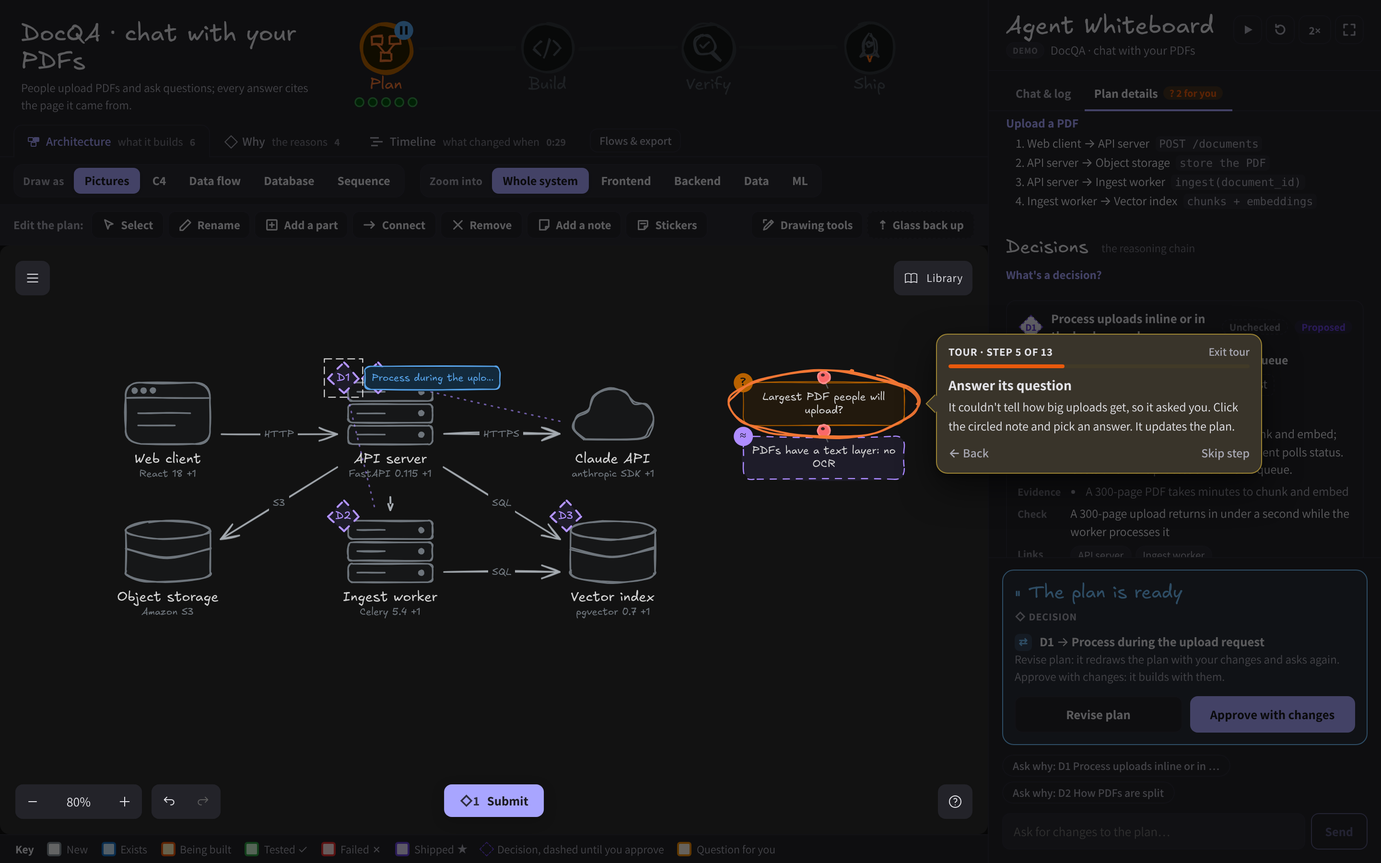
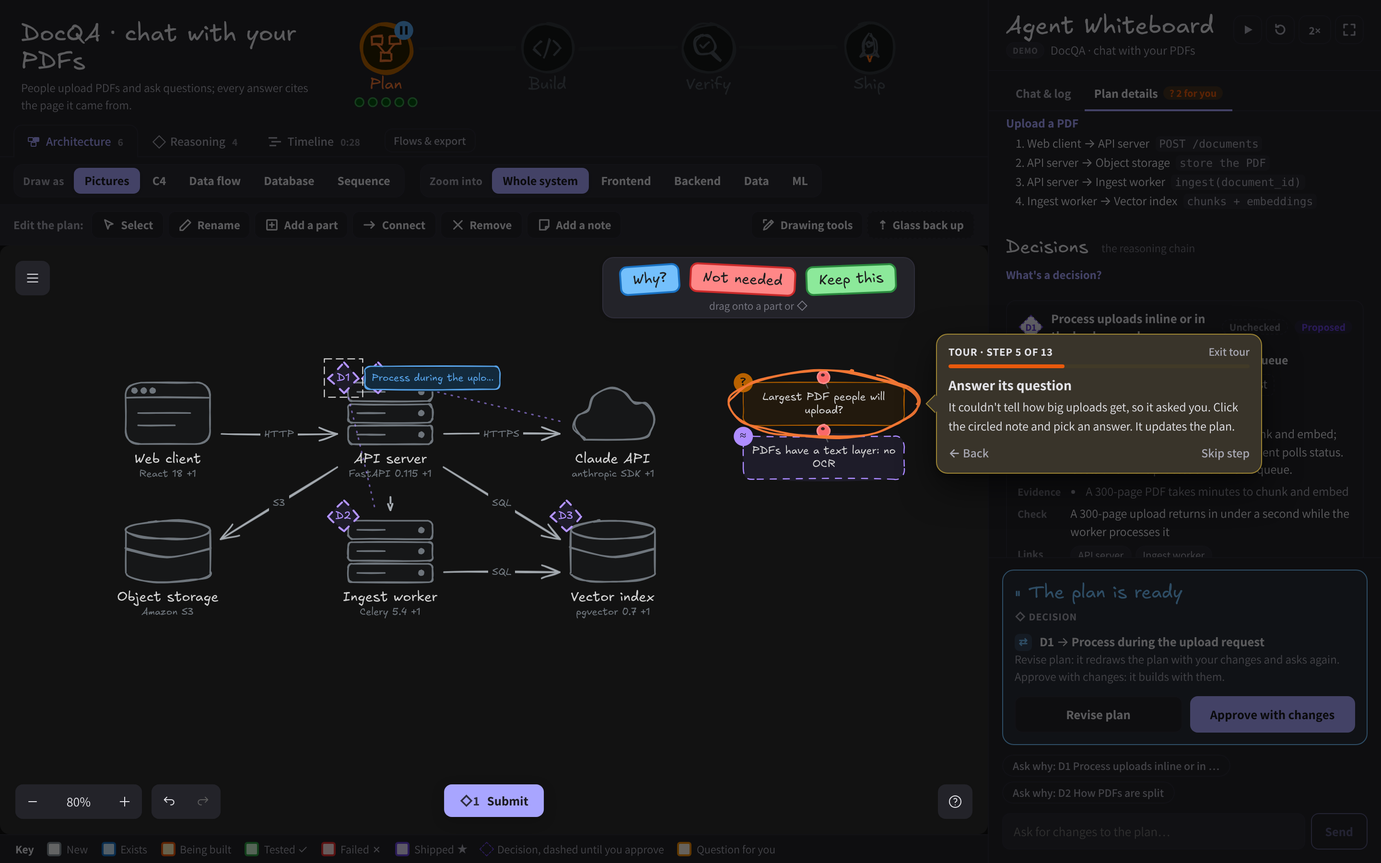
Stickers in a tray on the board; clearer board headers
The three stickers sit in a tray at the top right of the board, always in
sight, instead of behind a Stickers button in Excalidraw's Library (whose
"Personal Library" / "Excalidraw Library" headings meant nothing here).
Each is a plain HTML5 drag carrying the sticker as an Excalidraw library
item, so the drop is Excalidraw's own and the board turns it into an edit
as before; the drop lowers the glass. The Library button is hidden, and a
selected sticker no longer opens the style panel.

The board's tabs are Architecture, Reasoning (was "Why · the reasons")
and Timeline, with counts and no subtitles. With no plan yet the header
says "No plan yet" instead of "Waiting for the agent…".

Docs and screenshots updated; tour-check passes, light and dark.

Claude-Session: https://claude.ai/code/session_01CnzFEP1V3N7s4aLoNxWexn

diff --git a/src/App.jsx b/src/App.jsx
@@ -1,5 +1,5 @@
 import { useCallback, useEffect, useRef, useState } from "react";
-import { Excalidraw, exportToBlob, exportToSvg, sceneCoordsToViewportCoords, viewportCoordsToSceneCoords } from "@excalidraw/excalidraw";
+import { Excalidraw, exportToBlob, exportToSvg, MIME_TYPES, sceneCoordsToViewportCoords, serializeLibraryAsJSON, viewportCoordsToSceneCoords } from "@excalidraw/excalidraw";
 import { Board, PHASES, STATUS, STICKERS, stickerItems } from "./engine/board";
 import PhaseHeader from "./PhaseHeader";
 import { Session } from "./engine/session";
@@ -83,7 +83,6 @@ const TOOL_ICONS = {
   remove: <path d="M3.5 3.5l9 9M12.5 3.5l-9 9" />,
   note: <path d="M3 2.5h10v7.5l-3.5 3.5H3zM9.5 13.5V10H13" />,
   tools: <path d="M2.5 13.5l3-1 7.5-7.5-2-2L3.5 10.5zM9.5 4.5l2 2M2.5 2.5h3M2.5 2.5v3" />,
-  stickers: <path d="M3 3.5h10v6l-3.5 3.5H3zM9.5 13V9.5H13M5.5 6.5h5" />,
 };
 const ToolIcon = ({ name }) => (
   <svg width="15" height="15" viewBox="0 0 16 16" aria-hidden="true" fill="none" stroke="currentColor" strokeWidth="1.6" strokeLinecap="round" strokeLinejoin="round">
@@ -1094,6 +1093,35 @@ function BoardKey() {
   );
 }
 
+// The stickers, always in sight at the top of the board: drag one onto a part or a ◇. The drop is Excalidraw's
+// own library drop, so the board gets the same sticker elements (stickerItems) and turns them into
+// edits as before. A drop pulls the glass down, so you can move it or Submit.
+const STICKER_SAYS = { why: "Asks it to explain", drop: "Asks it to drop that", keep: "Says leave it as is" };
+function StickerTray({ onDropped }) {
+  return (
+    <div className="sticker-tray" data-tour="stickers" role="group" aria-label="Stickers: drag one onto a part or a decision">
+      {Object.entries(STICKERS).map(([key, st]) => (
+        <span
+          key={key}
+          className="sticker"
+          draggable
+          title={`${STICKER_SAYS[key]}. Drag it onto a part or a ◇.`}
+          style={{ "--st-stroke": st.stroke, "--st-fill": st.fill, transform: `rotate(${st.angle}rad)` }}
+          onDragStart={(e) => {
+            const item = stickerItems().find((i) => i.id === `wb-sticker-${key}`);
+            e.dataTransfer.setData(MIME_TYPES.excalidrawlib, serializeLibraryAsJSON([item]));
+            e.dataTransfer.effectAllowed = "copy";
+          }}
+          onDragEnd={(e) => e.dataTransfer.dropEffect !== "none" && onDropped()}
+        >
+          {st.label}
+        </span>
+      ))}
+      <span className="st-hint">drag onto a part or ◇</span>
+    </div>
+  );
+}
+
 export default function App() {
   const [api, setApi] = useState(null);
   const [whyApi, setWhyApi] = useState(null);
@@ -1309,9 +1337,6 @@ export default function App() {
       if (!alive) return;
       setAgent(status);
       setRepo((r) => r || status.defaultRepo || "");
-      // The sticker sheet, in Excalidraw's Library (Stickers in Edit the plan opens it). Made once
-      // the hand-drawn font is loaded, so the labels are measured right.
-      api.updateLibrary({ libraryItems: stickerItems(), merge: true, defaultStatus: "unpublished" }).catch((e) => console.warn("Stickers didn't load", e));
       // Excalidraw measures its container after mount, so fit once it has real dimensions.
       timers.push(setTimeout(() => board.fit(), 150));
       // With an API key, wait for a task; otherwise play the scripted demo, as the tour on a first visit.
@@ -1418,8 +1443,10 @@ export default function App() {
         const lids = s.board.logicalIdsFor(sel ? sel.split(",") : []);
         showLinked(lids);
         setBoardSel(lids);
-        // Restyling what the board draws does nothing (it's redrawn), so its style panel would only cover the board.
-        setOwnSel(!!sel && sel.split(",").every((id) => s.board.known.has(id)));
+        // Restyling what the board draws does nothing (it's redrawn), so its style panel would only cover
+        // the board; a sticker means what it says, whatever its colors.
+        const scene = sel ? new Map(s.board.api.getSceneElements().map((e) => [e.id, e])) : null;
+        setOwnSel(!!sel && sel.split(",").every((id) => s.board.known.has(id) || !!scene.get(id)?.customData?.sticker));
         // A selected decision fans out its alternatives: drag one onto it to pick it.
         if (s.mode !== "replay") s.board.onSelect(sel ? sel.split(",") : [], appState);
       }
@@ -1796,11 +1823,6 @@ export default function App() {
     setTimeout(() => !b.api.getAppState().editingTextElement && dbl(), 60);
     setToolHint("Type the new name, then click an empty spot.");
     return true;
-  };
-  // The sticker sheet is Excalidraw's Library sidebar.
-  const openStickers = () => {
-    s?.board.api.toggleSidebar({ name: "default", tab: "library", force: true });
-    setToolHint("Drag a sticker onto a part or a ◇. Why? asks it to explain, Not needed asks to drop it, Keep this says leave it as is.");
   };
   const selected = boardSel.length === 1 ? boardSel[0] : null;
   const toolRename = () => {
@@ -2409,13 +2431,11 @@ export default function App() {
           <button role="tab" aria-selected={boardView === "board"} data-tour="arch-tab" onClick={() => showView("board")} title="The components and how they connect. Edit it to steer the agent.">
             <span className="ct-icon" aria-hidden="true" />
             Architecture
-            <span className="ct-sub">what it builds</span>
             {nodeCount > 0 && <span className="ct-count">{nodeCount}</span>}
           </button>
           <button role="tab" aria-selected={boardView === "why"} data-tour="why-tab" onClick={() => showView("why")} title="Each decision: its evidence, what it shapes, and the check that proves it">
             <span className="vs-diamond" aria-hidden="true" />
-            Why
-            <span className="ct-sub">the reasons</span>
+            Reasoning
             {allDecisions.length > 0 && <span className="ct-count" title="Decisions">{allDecisions.length}</span>}
             {(proofCount("pass") > 0 || proofCount("fail") > 0) && (
               <span className="ct-proofs" title={`${proofCount("pass")} proven, ${proofCount("fail")} failed, ${proofCount(null)} not checked yet`}>
@@ -2427,7 +2447,6 @@ export default function App() {
           <button role="tab" aria-selected={boardView === "timeline"} data-tour="timeline-tab" onClick={() => showView("timeline")} title="How the decisions moved over the run: what changed, when, and because of what">
             <span className="tl-icon" aria-hidden="true" />
             Timeline
-            <span className="ct-sub">what changed when</span>
             {hasTimeline && <span className="ct-count" title="How long the run took">{fmt(tl.duration)}</span>}
             {tl?.changes > 0 && (
               <span className="ct-changes" title={`${tl.changes} decision change${tl.changes === 1 ? "" : "s"}`}>
@@ -2539,10 +2558,6 @@ export default function App() {
               <ToolIcon name="note" />
               Add a note
             </button>
-            <button onClick={openStickers} data-tour="stickers" title="Stickers to drag onto a part or a ◇: Why?, Not needed, Keep this">
-              <ToolIcon name="stickers" />
-              Stickers
-            </button>
             <button className={`eb-tools ${tools ? "on" : ""}`} aria-pressed={tools} onClick={toggleTools} title="Show or hide Excalidraw's full drawing tools">
               <ToolIcon name="tools" />
               Drawing tools
@@ -2564,6 +2579,7 @@ export default function App() {
                 <span className="glass-glint" />
               </div>
             )}
+            {editable && <StickerTray onDropped={lowerGlass} />}
             {editable && glassUp && (
               <button className="glass-handle" data-tour="glass" onClick={lowerGlass} title="Pull the glass down to move, rename, remove or add things, then Submit">
                 <span aria-hidden="true">⇣</span> Pull down to edit
@@ -2635,7 +2651,7 @@ export default function App() {
           <div
             className={`canvas ${boardView === "why" ? "on" : ""}`}
             role="tabpanel"
-            aria-label="Why"
+            aria-label="Reasoning"
             onPointerDownCapture={(e) => (whyDown.current = [e.clientX, e.clientY])}
             onPointerUpCapture={whyClick}
           >

diff --git a/src/styles.css b/src/styles.css
@@ -2215,18 +2215,6 @@ button:focus-visible {
   padding: 6px 12px;
 }
 
-/* Board tabs say what each one is for. */
-.ct-sub {
-  font-weight: 500;
-  font-size: 12px;
-  color: var(--faint);
-}
-@media (max-width: 1280px) {
-  .ct-sub {
-    display: none;
-  }
-}
-
 /* Flows & export: one flow's steps on the board, and Export. */
 .view-items {
   min-width: 220px;
@@ -2451,6 +2439,50 @@ button:focus-visible {
   background: var(--accent-soft);
   color: var(--accent);
 }
+/* The stickers live in the tray on the board, so Excalidraw's Library button has nothing to offer. */
+.canvas.arch .default-sidebar-trigger {
+  display: none;
+}
+
+/* The sticker tray: top right of the board (where the Library button was, clear of the agent's
+   avatar), the stickers as they look on it, ready to drag. */
+.sticker-tray {
+  position: absolute;
+  top: 12px;
+  right: 76px;
+  z-index: 3;
+  display: flex;
+  flex-wrap: wrap;
+  justify-content: center;
+  align-items: center;
+  gap: 4px 10px;
+  max-width: 300px;
+  padding: 7px 12px 5px;
+  border: 1px solid var(--line);
+  border-radius: 12px;
+  background: var(--panel);
+  box-shadow: 0 1px 4px rgba(0, 0, 0, 0.08);
+}
+.sticker {
+  padding: 3px 12px;
+  border: 2px solid var(--st-stroke);
+  border-radius: 8px;
+  background: var(--st-fill);
+  color: #1e1e1e;
+  font: 15px/1.4 var(--hand);
+  cursor: grab;
+  user-select: none;
+}
+.sticker:active {
+  cursor: grabbing;
+}
+.st-hint {
+  flex-basis: 100%;
+  text-align: center;
+  font-size: 11.5px;
+  color: var(--faint);
+}
+
 .canvas.tools-off .App-toolbar-container,
 .canvas.tools-off .HintViewer {
   display: none !important;

diff --git a/test/tour.test.js b/test/tour.test.js
@@ -77,7 +77,7 @@ test("a whole tour: each step waits for its action, then moves on by itself", ()
   assert.equal(at(t), "why");
 
   c = { ...c, phase: "verification", view: "why" };
-  assert.equal(advance(t, c), t, "the Why tab only counts once a check has changed a decision");
+  assert.equal(advance(t, c), t, "the Reasoning tab only counts once a check has changed a decision");
   c = { ...c, testCaused: true };
   t = advance(t, c);
   assert.equal(at(t), "untrue");
@@ -182,7 +182,7 @@ test("what stays lit, and where the card goes", () => {
   const built = { ...plan, gate: false, stage: "building", phase: "implementation", building: "api" };
   assert.deepEqual(go("build", built).spot, [".transcript", BOARD]);
   assert.deepEqual(go("build", { ...built, tab: "plan" }).spot, [BOARD]);
-  assert.deepEqual(go("why", { ...built, testCaused: true }).spot, [], "just the Why tab");
+  assert.deepEqual(go("why", { ...built, testCaused: true }).spot, [], "just the Reasoning tab");
   assert.deepEqual(go("untrue", { ...built, phase: "complete", finished: true }).spot, [BOARD], "the red pen marks");
-  assert.deepEqual(go("untrue", { ...built, phase: "complete", finished: true, view: "why" }).spot, [], "no pen marks on the Why tab");
+  assert.deepEqual(go("untrue", { ...built, phase: "complete", finished: true, view: "why" }).spot, [], "no pen marks on the Reasoning tab");
 });

diff --git a/src/engine/tour.js b/src/engine/tour.js
@@ -115,10 +115,10 @@ export const TOUR = [
   {
     id: "why",
     title: "A check failed, so it changed a decision",
-    text: "D2 said “the right page for 45 of 50 questions”. The eval found 41, so it changed D2. Open the Why tab: each decision with its evidence, what it shapes, and the check that proves it.",
+    text: "D2 said “the right page for 45 of 50 questions”. The eval found 41, so it changed D2. Open the Reasoning tab: each decision with its evidence, what it shapes, and the check that proves it.",
     wait: (c) => (c.testCaused ? null : "Testing… watch the ◇ decisions get ✓ or ✗."),
     done: (c) => (c.testCaused && c.view === "why") || past(c, ["complete"]),
-    dom: (c) => (c.testCaused ? [{ sel: '[data-tour="why-tab"]', label: "Why" }] : []),
+    dom: (c) => (c.testCaused ? [{ sel: '[data-tour="why-tab"]', label: "Reasoning" }] : []),
     release: "verify",
   },
   {

diff --git a/src/PhaseHeader.jsx b/src/PhaseHeader.jsx
@@ -105,8 +105,8 @@ export default function PhaseHeader({ model, reviewing, hl, onHover, onFocus }) 
   return (
     <header className="journey" ref={wrap}>
       <div className={`journey-title ${hl.has("title") ? "hl" : ""}`}>
-        <h2>{model.project || "Waiting for the agent…"}</h2>
-        {model.goal && <p title={model.goal}>{model.goal}</p>}
+        <h2>{model.project || "No plan yet"}</h2>
+        {model.goal ? <p title={model.goal}>{model.goal}</p> : !model.project && <p>The agent draws its plan here.</p>}
       </div>
       <svg className="journey-strip" data-tour="road" viewBox={`0 0 ${W} ${H}`} role="list" aria-label="Development phases">
         {art.map(({ p, i, state, st, cx, road, circle, icon: ic }) => {

diff --git a/HANDOFF.md b/HANDOFF.md
@@ -44,10 +44,11 @@ Every run is recorded so it can be replayed, reopened, and read as a decision lo
 - **Views (4.2):** (earlier) Pictures | C4 switch, now part of the Diagram picker; **Show** picker: one layer (Frontend, Backend, Data, ML, External) or one flow (numbered steps on the arrows, a steps card, the rest faded); **Export**: Mermaid (container view, or the flow as a sequence diagram), SVG, PNG. New op `flow` and node field `layer`; the decision log now has a Diagrams section. Verified on the demo (both styles, both flows, the ML layer, a full build with a flow focused, SVG/PNG downloads, Mermaid rendered with Mermaid 11) and a saved real run; not on a live run yet: check the agent sends `flow` ops and `layer`s.
 - **Models (README):** three settings, `AGENT_URL` (any Anthropic-format endpoint; left out for Anthropic's API), `AGENT_KEY` (left out for a local server) and `AGENT_MODEL`. `agentEnv()` in `server/runs.js` writes them into the variables the Claude Agent SDK reads and is passed as the query's `env`: for a custom URL, `ANTHROPIC_BASE_URL`, `ANTHROPIC_AUTH_TOKEN` (the key, or `none`), an empty `ANTHROPIC_API_KEY` (so the SDK doesn't sign in to Anthropic instead), and the model for every `ANTHROPIC_DEFAULT_*_MODEL` tier. Claude Code's own variables (`ANTHROPIC_*`, `CLAUDE_CODE_USE_BEDROCK`/`VERTEX`/`FOUNDRY`) still work. `provider()` names the route in the top bar. The agent loop is the SDK, so non-Claude models are unofficial. Only Anthropic's API has been run; an Ollama test in a cloud session was blocked (running the downloaded binary wasn't permitted), so Ollama, LiteLLM, OpenRouter and the cloud providers follow their official setup pages, **untested**. **Codex is supported** (`AGENT_ENGINE=codex`, `server/codex-run.js`, below). opencode and pi aren't; the board's MCP server over HTTP (`server/board-mcp.js`) is what they'd connect to, plus a run loop each, like Codex's.
 - **First-time help (4.11):** someone found the UI too hard to follow, so it now walks a first-year CS student through a run without removing anything: a coach card (step 1–4 and what to do now), sticky-note tips with hand-drawn arrows on the board at the first plan gate, an **Edit the plan** toolbar with words (Excalidraw's own toolbar behind **Drawing tools**), a click-to-explain card for whatever's selected, a color key, plain-word tabs/counts/receipts/prompts, and one **View** menu for Diagram, Show only and Export. Designed from three mockups (A step by step, B today's layout plus a coach, C click anything; a private Design canvas the user has): this is B plus C's explain card. Verified on the demo (every step, Rename, Use this and Remove queuing edits, dark theme), the start screen and a permission prompt with the agent status stubbed live and a recording fed through the agent path; not on a live run yet.
-- **Stickers, red pen, tape and pins (4.12):** a sticker sheet (Why?, Not needed, Keep this) in Excalidraw's Library, opened by **Stickers** in Edit the plan; a sticker dropped on a part or a ◇ becomes a `sticker` edit (area ▢ / ◇, Keep this ✐), sent with Submit, answered by the agent, then cleared (Keep this stays as a constraint, listed as `kept` in board_state). At the end of a run the review is marked on the board in red pen: a ring round the part owning a file a false claim names (a margin note when no part owns it), a ✗ over a failed check. Your notes get washi tape, the agent's questions and assumptions a push pin (Pictures only). Verified on the demo in headless Chromium, light and dark (real drags from the Library onto a part and a diamond, Approve with changes, the clear-up after the turn, a real click on a pen mark, C4 without tape or pins); not on a live run yet: check the agent answers `sticker` edits as instructions.js says.
+- **Stickers, red pen, tape and pins (4.12):** three stickers (Why?, Not needed, Keep this) in a tray at the top of the board (they used to be in Excalidraw's Library, behind a Stickers button: the user doesn't want things hidden behind buttons); a sticker dropped on a part or a ◇ becomes a `sticker` edit (area ▢ / ◇, Keep this ✐), sent with Submit, answered by the agent, then cleared (Keep this stays as a constraint, listed as `kept` in board_state). At the end of a run the review is marked on the board in red pen: a ring round the part owning a file a false claim names (a margin note when no part owns it), a ✗ over a failed check. Your notes get washi tape, the agent's questions and assumptions a push pin (Pictures only). Verified on the demo in headless Chromium, light and dark (real drags from the Library onto a part and a diamond, Approve with changes, the clear-up after the turn, a real click on a pen mark, C4 without tape or pins); not on a live run yet: check the agent answers `sticker` edits as instructions.js says.
 - **The tour (4.13):** **Take the tour** runs the scripted demo as a 13-step lesson that waits for you at each step (click a ◇, Use this or a sticker, answer the question, approve with changes, hover a log line, a scripted command prompt, the Why tab after D2 fails, the false README.md claim, the Timeline, Draw as and Zoom into, finish). Step logic is pure (`src/engine/tour.js`, unit-tested in `test/tour.test.js`); `scripts/tour-check.cjs` takes the whole tour in headless Chromium with real clicks, light and dark, plus Back / Skip step / Exit and a check that the plain demo is unchanged. Live mode's start screen checked with the agent status stubbed live. Screenshots in `screenshots/tour/`.
 - **Tutorial:** `docs/TUTORIAL.md`, a walkthrough for a first-year CS student (setup, the tour, a first run, steering, the command prompt, checking the result, saved runs and the decision log, your own task), linked at the top of the README. Its screenshots are `screenshots/tour/`, `screenshots/stickers/` and `screenshots/tutorial/` (the start screen, a reopened run's Timeline). Keep it in step with the UI: when a button's name or a step changes, update the tutorial in the same commit.
 - **Zoom into, Draw as, the glass, a shorter demo (4.14):** the user wanted layers they can open (not just greyed-out boxes), the notation picker visible, the board behind glass until you choose to edit, and less prose in the panel. A bar above the board: **Draw as** (the old Diagram dropdown) and **Zoom into** (Whole system or a layer: the layer's components opened on the board's own map to show their parts, other layers closed as grey boxes; new `part` op). The board sits behind glass; **Pull down to edit** shows Edit the plan, Submit puts it back. The demo's prose is one line per step (same ops). Verified on the demo in headless Chromium (every layer, a drag blocked behind glass and a click still explaining, the drag working with the glass down, the tour's new step); not on a live run yet: check the agent sends `part` ops.
+- **Headers:** the board's tabs are **Architecture**, **Reasoning** (was "Why · the reasons") and **Timeline**, with their counts and no subtitles (the tooltips explain). With no plan yet the header says "No plan yet" and "The agent draws its plan here." (was "Waiting for the agent…"). Code still calls the Reasoning view `why` (`whyApi`, `data-tour="why-tab"`).
 - Next: the backlog in 8.7.
 
 ---
@@ -241,7 +242,7 @@ Its own Excalidraw canvas (read-only, `viewModeEnabled`). One row per decision: 
 
 Three board-drawn touches, all following the `showTips` pattern (board ids, remembered so `diff()` skips them, seeds from ids):
 
-- **Sticker sheet** (`src/engine/stickers.js`, `stickerItems()` in board.js). `STICKERS` = why (blue, "Why?"), drop (red, "Not needed"), keep (green, "Keep this"): a rounded box, roughness 2, a slight angle, with a bound Excalifont label; box and label both carry `customData: { sticker }`. App loads them once fonts are ready with `api.updateLibrary({ libraryItems, merge: true, defaultStatus: "unpublished" })` (so they show under **Personal Library**). **Stickers** in the Edit the plan bar calls `api.toggleSidebar({ name: "default", tab: "library", force: true })` and shows a hint; the coach's plan step and the panel hint mention stickers. Dropping a library item gives its elements new ids but **keeps `customData`** (checked in Chromium).
+- **Sticker sheet** (`src/engine/stickers.js`, `stickerItems()` in board.js). `STICKERS` = why (blue, "Why?"), drop (red, "Not needed"), keep (green, "Keep this"): a rounded box, roughness 2, a slight angle, with a bound Excalifont label; box and label both carry `customData: { sticker }`. `StickerTray` (App.jsx) shows them at the top right of the Architecture canvas whenever the plan is editable, glass up or down; each is an HTML5 drag carrying `serializeLibraryAsJSON([item])` as `MIME_TYPES.excalidrawlib`, so the drop is Excalidraw's own library drop (same elements, placed where you let go; the glass doesn't block drops) and the drop lowers the glass. Excalidraw's Library button is hidden (`.canvas.arch .default-sidebar-trigger`), and a selected sticker hides the style panel like the board's own drawing (`ownSel`); the coach's plan step and the panel hint mention stickers. Dropping a library item gives its elements new ids but **keeps `customData`** (checked in Chromium).
 - **Sticker edits.** In `Board.diff()`, an unknown element with `customData.sticker` goes to `stickerEdit(e, model, live)`: its label (it has a `containerId`) makes nothing; the target is the decision whose diamond the sticker's center is on (±12 px; diamonds sit on a part's corner, so that's the precise gesture), else the component hit-box it overlaps most, else a diamond it touches; rejected decisions aren't targets. Edit: `{ key: sticker:<el>:node:<id>, kind: "sticker", sticker, elId, node, name }` or `{ …, decision, label, title, chose }`. **On nothing it's ignored** (just a drawing; nothing is sent). `areaOf`: keep → scope ✐ (a constraint on the task); why/drop → decision ◇ on a diamond, architecture ▢ on a part. `describeEdit` ("Why? on API server"), App `describe` (a sticker-colored chip), `GLYPH.sticker` ◪, the floating Submit counts, server `describeEdit`/`logEdit` (decision log: "◇ Asked why: **D3** (…)", "▢ Not needed: **Object storage**", "✐ Keep this: **Claude API**"), the demo's `buildEditsReply` (why → it quotes the decision's why or the part's API; drop → `remove` / `decision state=rejected`; keep → a promise), and `server/instructions.js` (why = justify, change nothing; drop = remove/reject; keep = constraint, ask with a question op if it must change).
 - **After sending.** `Session.approve/sendEdits` call `Board.markSent(edits)`: the sticker's ids join `known` (no re-report), and Keep this goes into `model.kept` ({ elId, node | decision }). `Session.stateChanged` waits for the turn that answers them to start (`stickerTurn`) and end, then `settleStickers()` deletes Why? and Not needed. Keep this stays; `snapshot()` lists still-present ones as `kept: [{ node } | { decision }]` in every board_state. Deleting a Keep sticker later just drops it from `kept` (no edit is sent).
 - **Red pen** (`penMarks()` in review.js, `Board.showPen/hidePen/penLink`). `checkClaim` now returns `wrong` (the files) with a bad file claim. `penMarks({ model, claims, ownerOf })` → `circles` (a part that owns a wrong file, via `Board.ownerOf`), `notes` (a wrong file no part owns: **a red margin note under the board**, "✗ README.md · not on the board", underlined), `crosses` (decisions with `proof: "fail"`, not rejected). App computes it while the review card shows and calls `showPen` every render (it bails on an unchanged signature of ids and positions; when a new mark lands out of view or behind the zoom controls, it refits the board) or `hidePen` when the review goes (a new round, reset). Ids `pen-c-<node>`, `pen-x-<decision>` (+`-2`), `pen-n-<i>` (+`-u`), `#e03131`, roughness 2.5, grouped per mark, on layer 3 with the tips, dropped by `exportElements`. Selecting one (App `onChange` → `penLink`) opens its sentence (Chat & log) or decision card (Plan details) and clears the selection (setting `lastSel` to "" first, or the deselect clears the link it just made). The demo's false README.md claim is unowned, so it shows the margin note; give a part `README.md` in its paths (`window.__wb.board.addNode({ id: "web", paths: ["web/", "README.md"] }); window.__wb.notify()`) to see the ring, and `board.setDecision({ id: "d2", proof: "fail" })` + `notify()` for the ✗.

diff --git a/README.md b/README.md
@@ -23,7 +23,7 @@ The app walks a newcomer through a run without hiding anything. **Hide tips** tu
 - **Coach.** A yellow card at the top of the panel says which step you're on (Describe → Plan → Build → Check) and what to do now, in a sentence or two.
 - **Tips on the board.** The first time a plan waits for you, orange circles ring its first decision and its first open question; the coach card says what to do with them, so there's one ask at a time. Click one to dismiss them. They're never exported or sent to the agent.
 - **Glass.** The board sits behind glass: clicks explain, nothing moves. **Pull down to edit** shows Edit the plan; **Submit** sends your changes and puts the glass back. Use this, Rename and Remove pull it down for you.
-- **Edit the plan.** With the glass down, a toolbar with words above the board: Select, Rename, Add a part, Connect, Remove, Add a note, Stickers. Each picks the matching Excalidraw tool and says what to do next; the gestures (double-click, Delete, drawing) still work. Excalidraw's full toolbar is behind **Drawing tools**.
+- **Edit the plan.** With the glass down, a toolbar with words above the board: Select, Rename, Add a part, Connect, Remove, Add a note. Each picks the matching Excalidraw tool and says what to do next; the gestures (double-click, Delete, drawing) still work. Excalidraw's full toolbar is behind **Drawing tools**.
 - **Click to explain.** Select a part, a ◇, an arrow or a question and a card says what it is in plain words (what a service is, its status, routes, files, decisions, connections), with its actions as buttons: Rename, Remove, Ask about it, See the code; for a decision, **Use this** on each option, Ask why and Reject it; for a question, its answers.
 - **Plain words.** Symbols come with a word: receipts read "✓ checked", "✗ not true", "? can't tell"; the panel's tabs are **Chat & log** and **Plan details**, with counts like "2 for you"; each board tab says what it's for; a key under the Pictures board says what the colors mean; a command prompt says what the command is for and why you're asked; at the plan gate, suggested questions ("Ask why: D1 …") start a message.
 
@@ -124,15 +124,15 @@ Edit the board; each change is sorted by what you touched:
 | ▢ | Architecture | rename (double-click a name), delete, draw a box, draw an arrow between two |
 | ◇ | Decision | select a diamond → its alternatives fan out → drag one onto it (or type your own in the blank one); delete a diamond to reject it |
 | ✐ | Scope | drop a text note ("English PDFs only") |
-| ▢ ◇ ✐ | Stickers | drag **Why?**, **Not needed** or **Keep this** from the sticker sheet onto a part or a ◇ |
+| ▢ ◇ ✐ | Stickers | drag **Why?**, **Not needed** or **Keep this** from the tray at the top of the board onto a part or a ◇ |
 
 Queued changes show in the panel by area, and **Submit** (panel, or floating on the board with ▢ ◇ ✐ counts) sends them. While the agent works they go after its current step. The agent gets each edit with its area; the decision log lists them the same way. In Plan details, clicking an alternative under **Over** picks it too. A picked option sits beside its diamond in blue until the agent applies it; delete it to undo.
 
 ### Stickers
 
-![The sticker sheet open in the Library, and three stickers on the plan: Not needed on Object storage, Why? on D3, Keep this on Claude API, queued by area with ▢1 ◇1 ✐1 on Submit](screenshots/stickers/1-stickers-on-the-plan-light.png)
+![The sticker tray at the top of the board, and three stickers on the plan: Not needed on Object storage, Why? on D3, Keep this on Claude API, queued by area with ▢1 ◇1 ✐1 on Submit](screenshots/stickers/1-stickers-on-the-plan-light.png)
 
-**Stickers** in Edit the plan opens Excalidraw's Library with a sheet of three stickers. Drag one onto a part or a decision diamond:
+Three stickers sit in a tray at the top of the board, always in sight. Drag one onto a part or a decision diamond (the glass comes down by itself):
 
 | Sticker | On a part | On a ◇ | Area |
 | --- | --- | --- | --- |
@@ -162,7 +162,7 @@ To push back, **Ask why** on a decision starts a message ("About D1 …") for yo
 
 Every decision also names its **check**: how we'll know it was right, usually a test by name. Its result is drawn on the diamond: ✓ proven, ✗ failed. The agent reports proofs after running the tests, and the server compares them with the test runner's own output (node --test, Jest/Vitest, pytest -v, go test -v). Where the output disagrees, the output wins and the agent is told. Later test runs keep re-checking, so a regression crosses a diamond again. A decision whose choice changes goes back to unchecked.
 
-The **Why** tab draws each decision as a chain: evidence (files from the repo, facts, your request, a failed check) → the decision → the components it shapes → its proof. Dashed purple links show which decisions build on which. It's drawn from the decisions, so it's read-only: pan and zoom it, and click a row to open that decision in Plan details. The tab itself counts the decisions and how many are proven (✓) or failed (✗).
+The **Reasoning** tab draws each decision as a chain: evidence (files from the repo, facts, your request, a failed check) → the decision → the components it shapes → its proof. Dashed purple links show which decisions build on which. It's drawn from the decisions, so it's read-only: pan and zoom it, and click a row to open that decision in Plan details. The tab itself counts the decisions and how many are proven (✓) or failed (✗).
 
 The **Timeline** tab answers "what changed, when, and because of what?" across the run, left to right with mm:ss ticks:
 

diff --git a/docs/TUTORIAL.md b/docs/TUTORIAL.md
@@ -88,9 +88,9 @@ Now it edits files by itself. Parts turn **orange** while it changes them. In **
 
 Each decision came with a check. When it runs the tests, each ◇ gets a ✓ (passed) or ✗ (failed). In the demo, D2 ("how PDFs are split") fails: the check wanted the right page for 45 of 50 questions, and it got 41. So the agent **changes D2** and tests again: 47 of 50, ✓.
 
-Open the **Why** tab to see the reasoning as a chain: **evidence → decision → what it shapes → proof**. D2's row shows the failed check as the reason it changed.
+Open the **Reasoning** tab to see the reasoning as a chain: **evidence → decision → what it shapes → proof**. D2's row shows the failed check as the reason it changed.
 
-![The Why tab: one row per decision, from evidence to proof](../screenshots/tour/09b-why-tab.png)
+![The Reasoning tab: one row per decision, from evidence to proof](../screenshots/tour/09b-why-tab.png)
 
 ### It ships
 
@@ -125,11 +125,10 @@ With the glass down, **Edit the plan** above the board has buttons with words:
 | **Connect** | Draw an arrow from one part to another |
 | **Remove** | Remove the selected part or arrow, or reject the selected ◇ |
 | **Add a note** | Write a note on the board, like "English PDFs only" |
-| **Stickers** | Opens the sticker sheet (below) |
 
 ### Stickers
 
-Press **Stickers** and drag one onto a part or a ◇:
+The three stickers sit at the top of the board. Drag one onto a part or a ◇ (the glass comes down by itself):
 
 - **Why?** asks it to explain (it changes nothing).
 - **Not needed** asks it to drop that part or decision.
